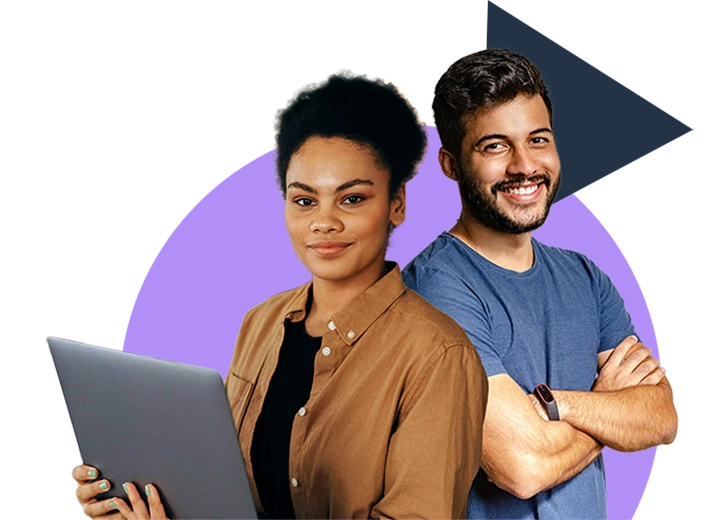
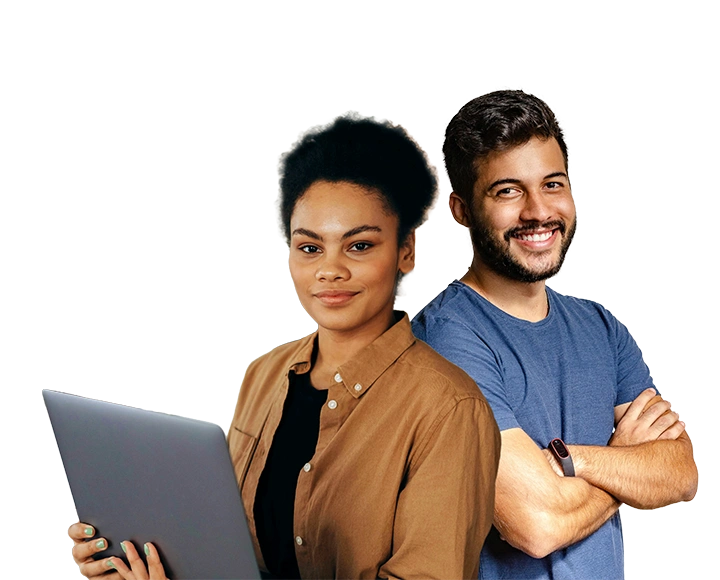
Ask4Conseil

diff --git a/ask-for-conseil/assets/css/nux-style.css b/ask-for-conseil/assets/css/nux-style.css
@@ -570,6 +570,33 @@
 .nux-hero__banner {
   z-index: 2;
 }
+.nux-hero__banner::before,
+.nux-hero__banner::after {
+  position: absolute;
+  content: "";
+  pointer-events: none;
+}
+.nux-hero__banner::before {
+  top: 0;
+  right: 0;
+  rotate: 5deg;
+  translate: -20% 10%;
+  z-index: -1;
+  width: 25%;
+  height: 40%;
+  clip-path: polygon(100% 50%, 0% 0%, 0% 100%);
+  background-color: var(--nux-c-bluewood);
+}
+.nux-hero__banner::after {
+  right: 0;
+  bottom: 0;
+  translate: -10% 25%;
+  z-index: -2;
+  width: 75%;
+  aspect-ratio: 1/1;
+  background-color: var(--nux-c-portage);
+  border-radius: 50%;
+}
 .nux-hero__container {
   position: relative;
   background-color: var(--nux-c-bittersweet);

diff --git a/ask-for-conseil/mapping-matching.html b/ask-for-conseil/mapping-matching.html
@@ -31,7 +31,7 @@
           </div>
         </div>
         <div class="nux-hero__banner">
-          <img class="nux-w-full nux-h-auto" src="assets/img/hero.webp" alt="Hero" width="720" height="520">
+          <img class="nux-w-full nux-h-auto" src="assets/img/hero.webp" alt="Hero" width="720" height="580">
         </div>
         <div class="nux-hero__shape"></div>
       </div>
